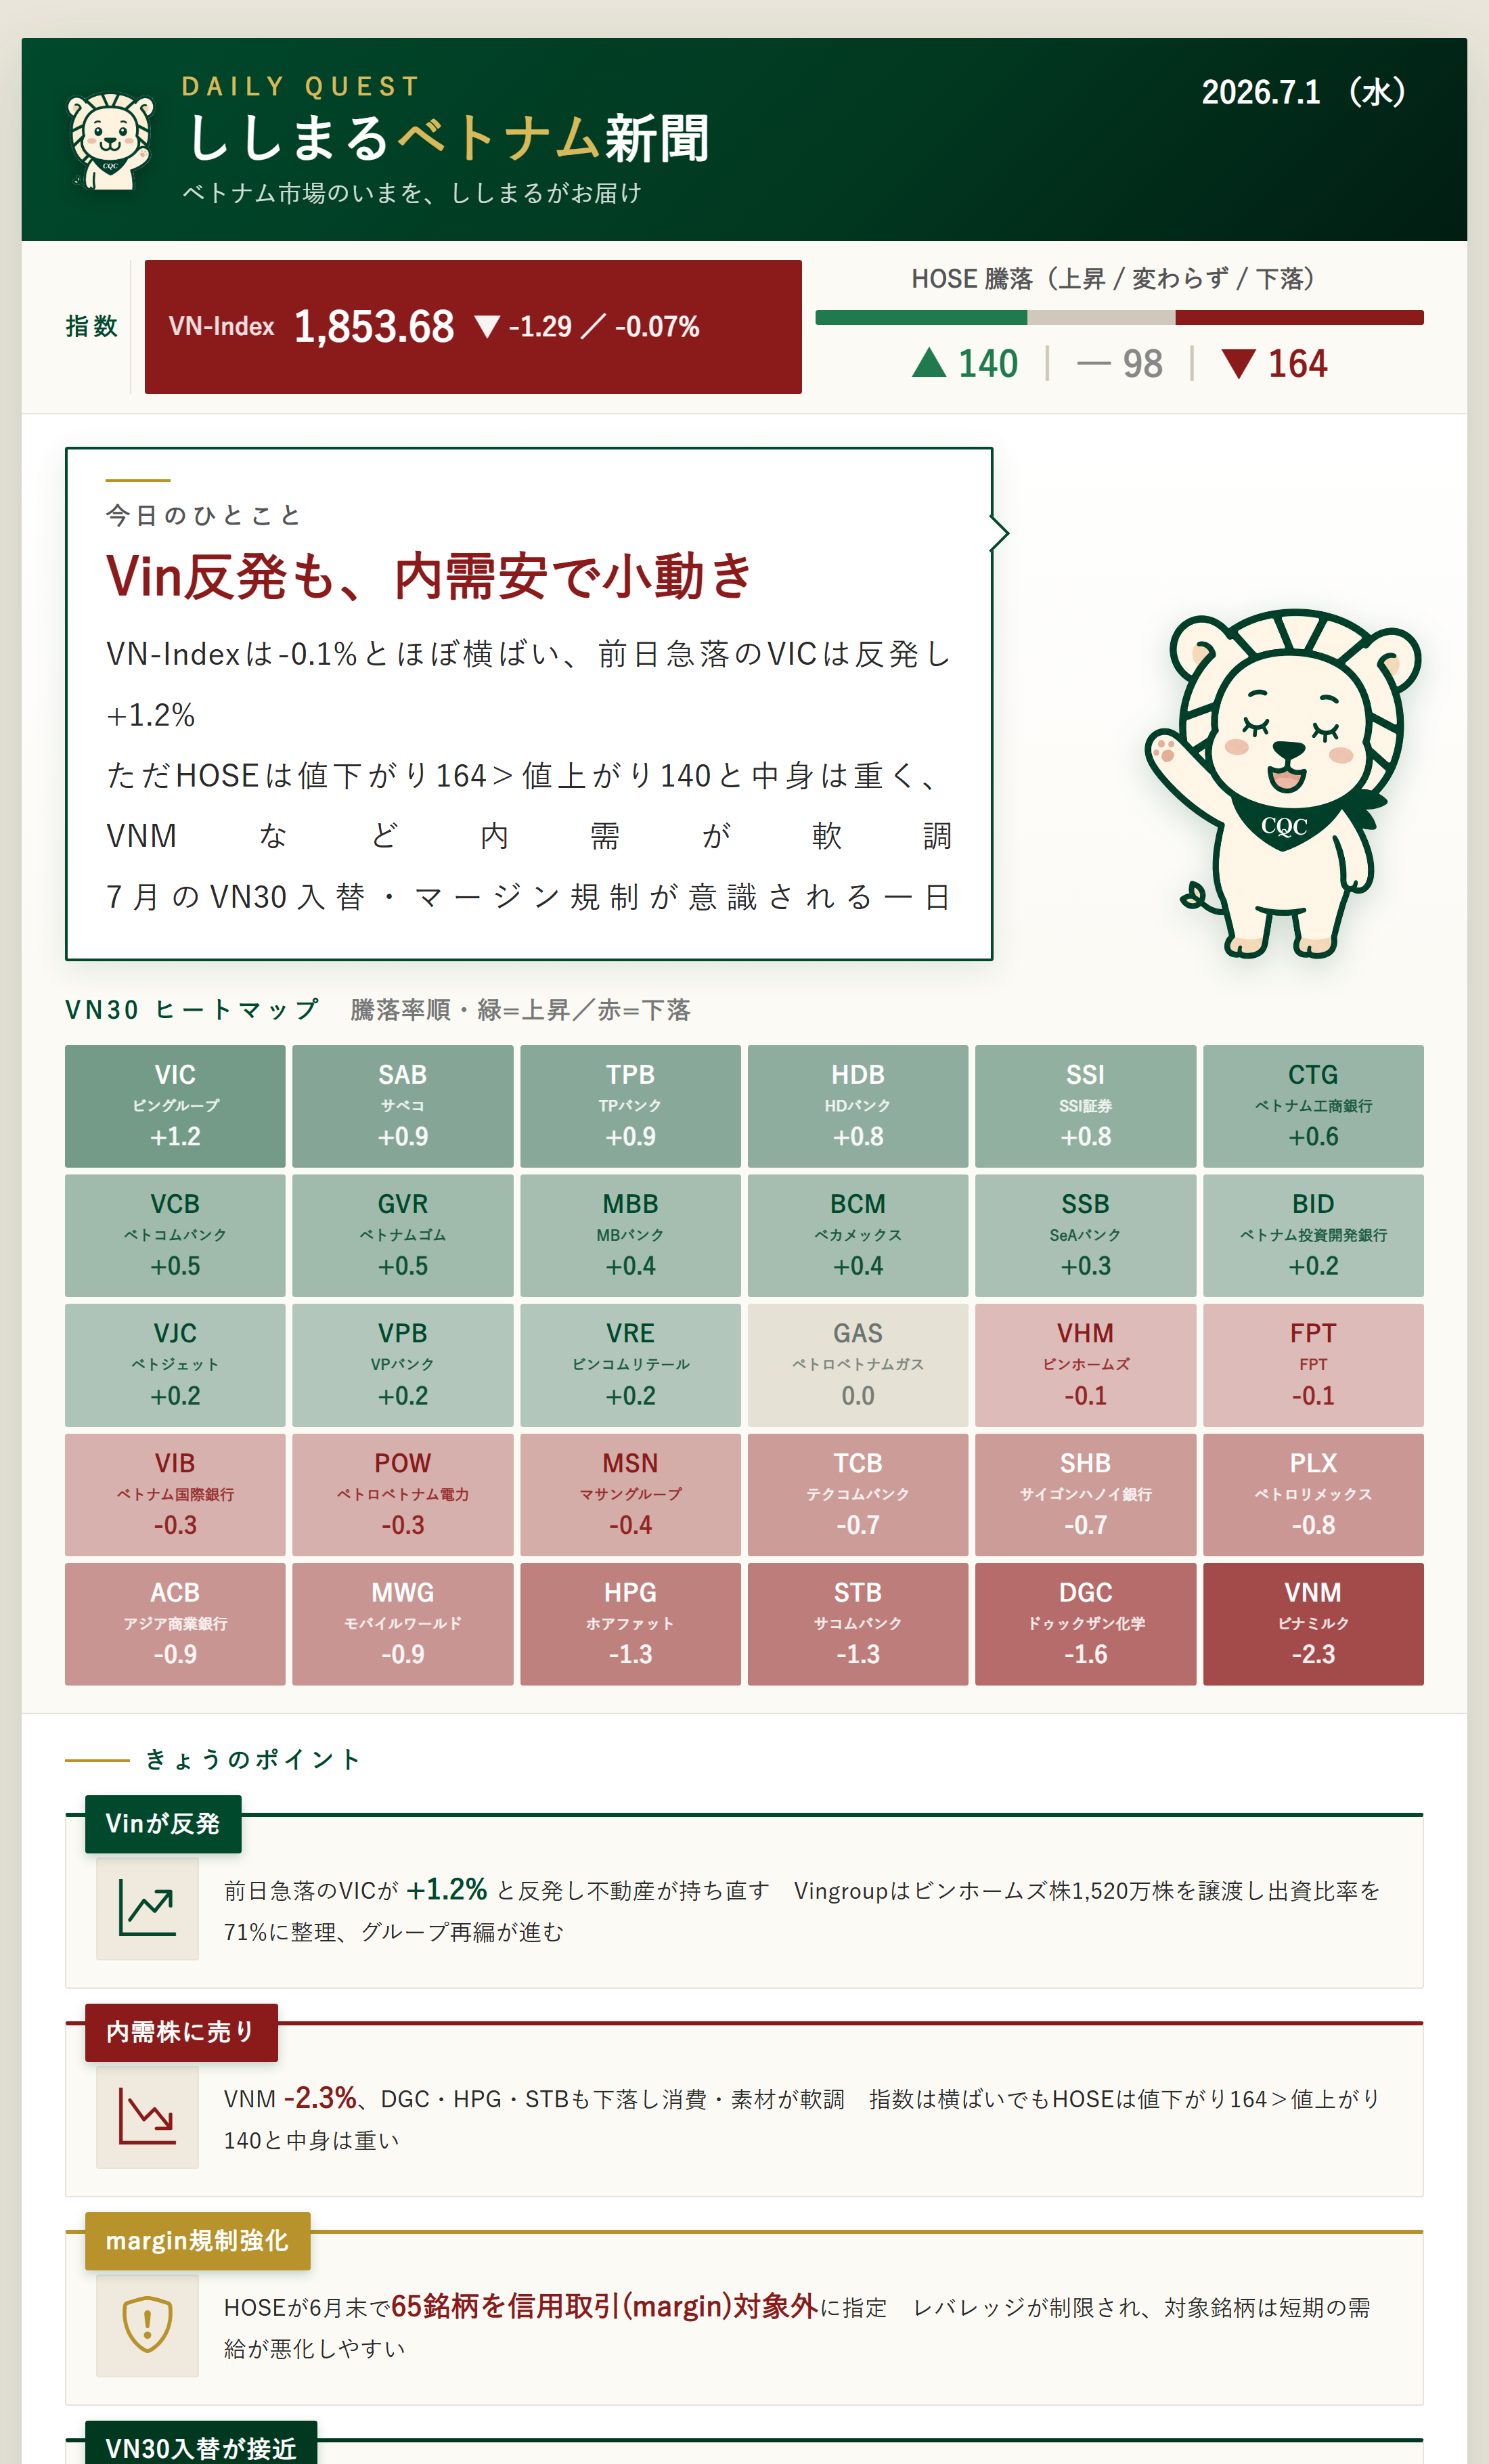
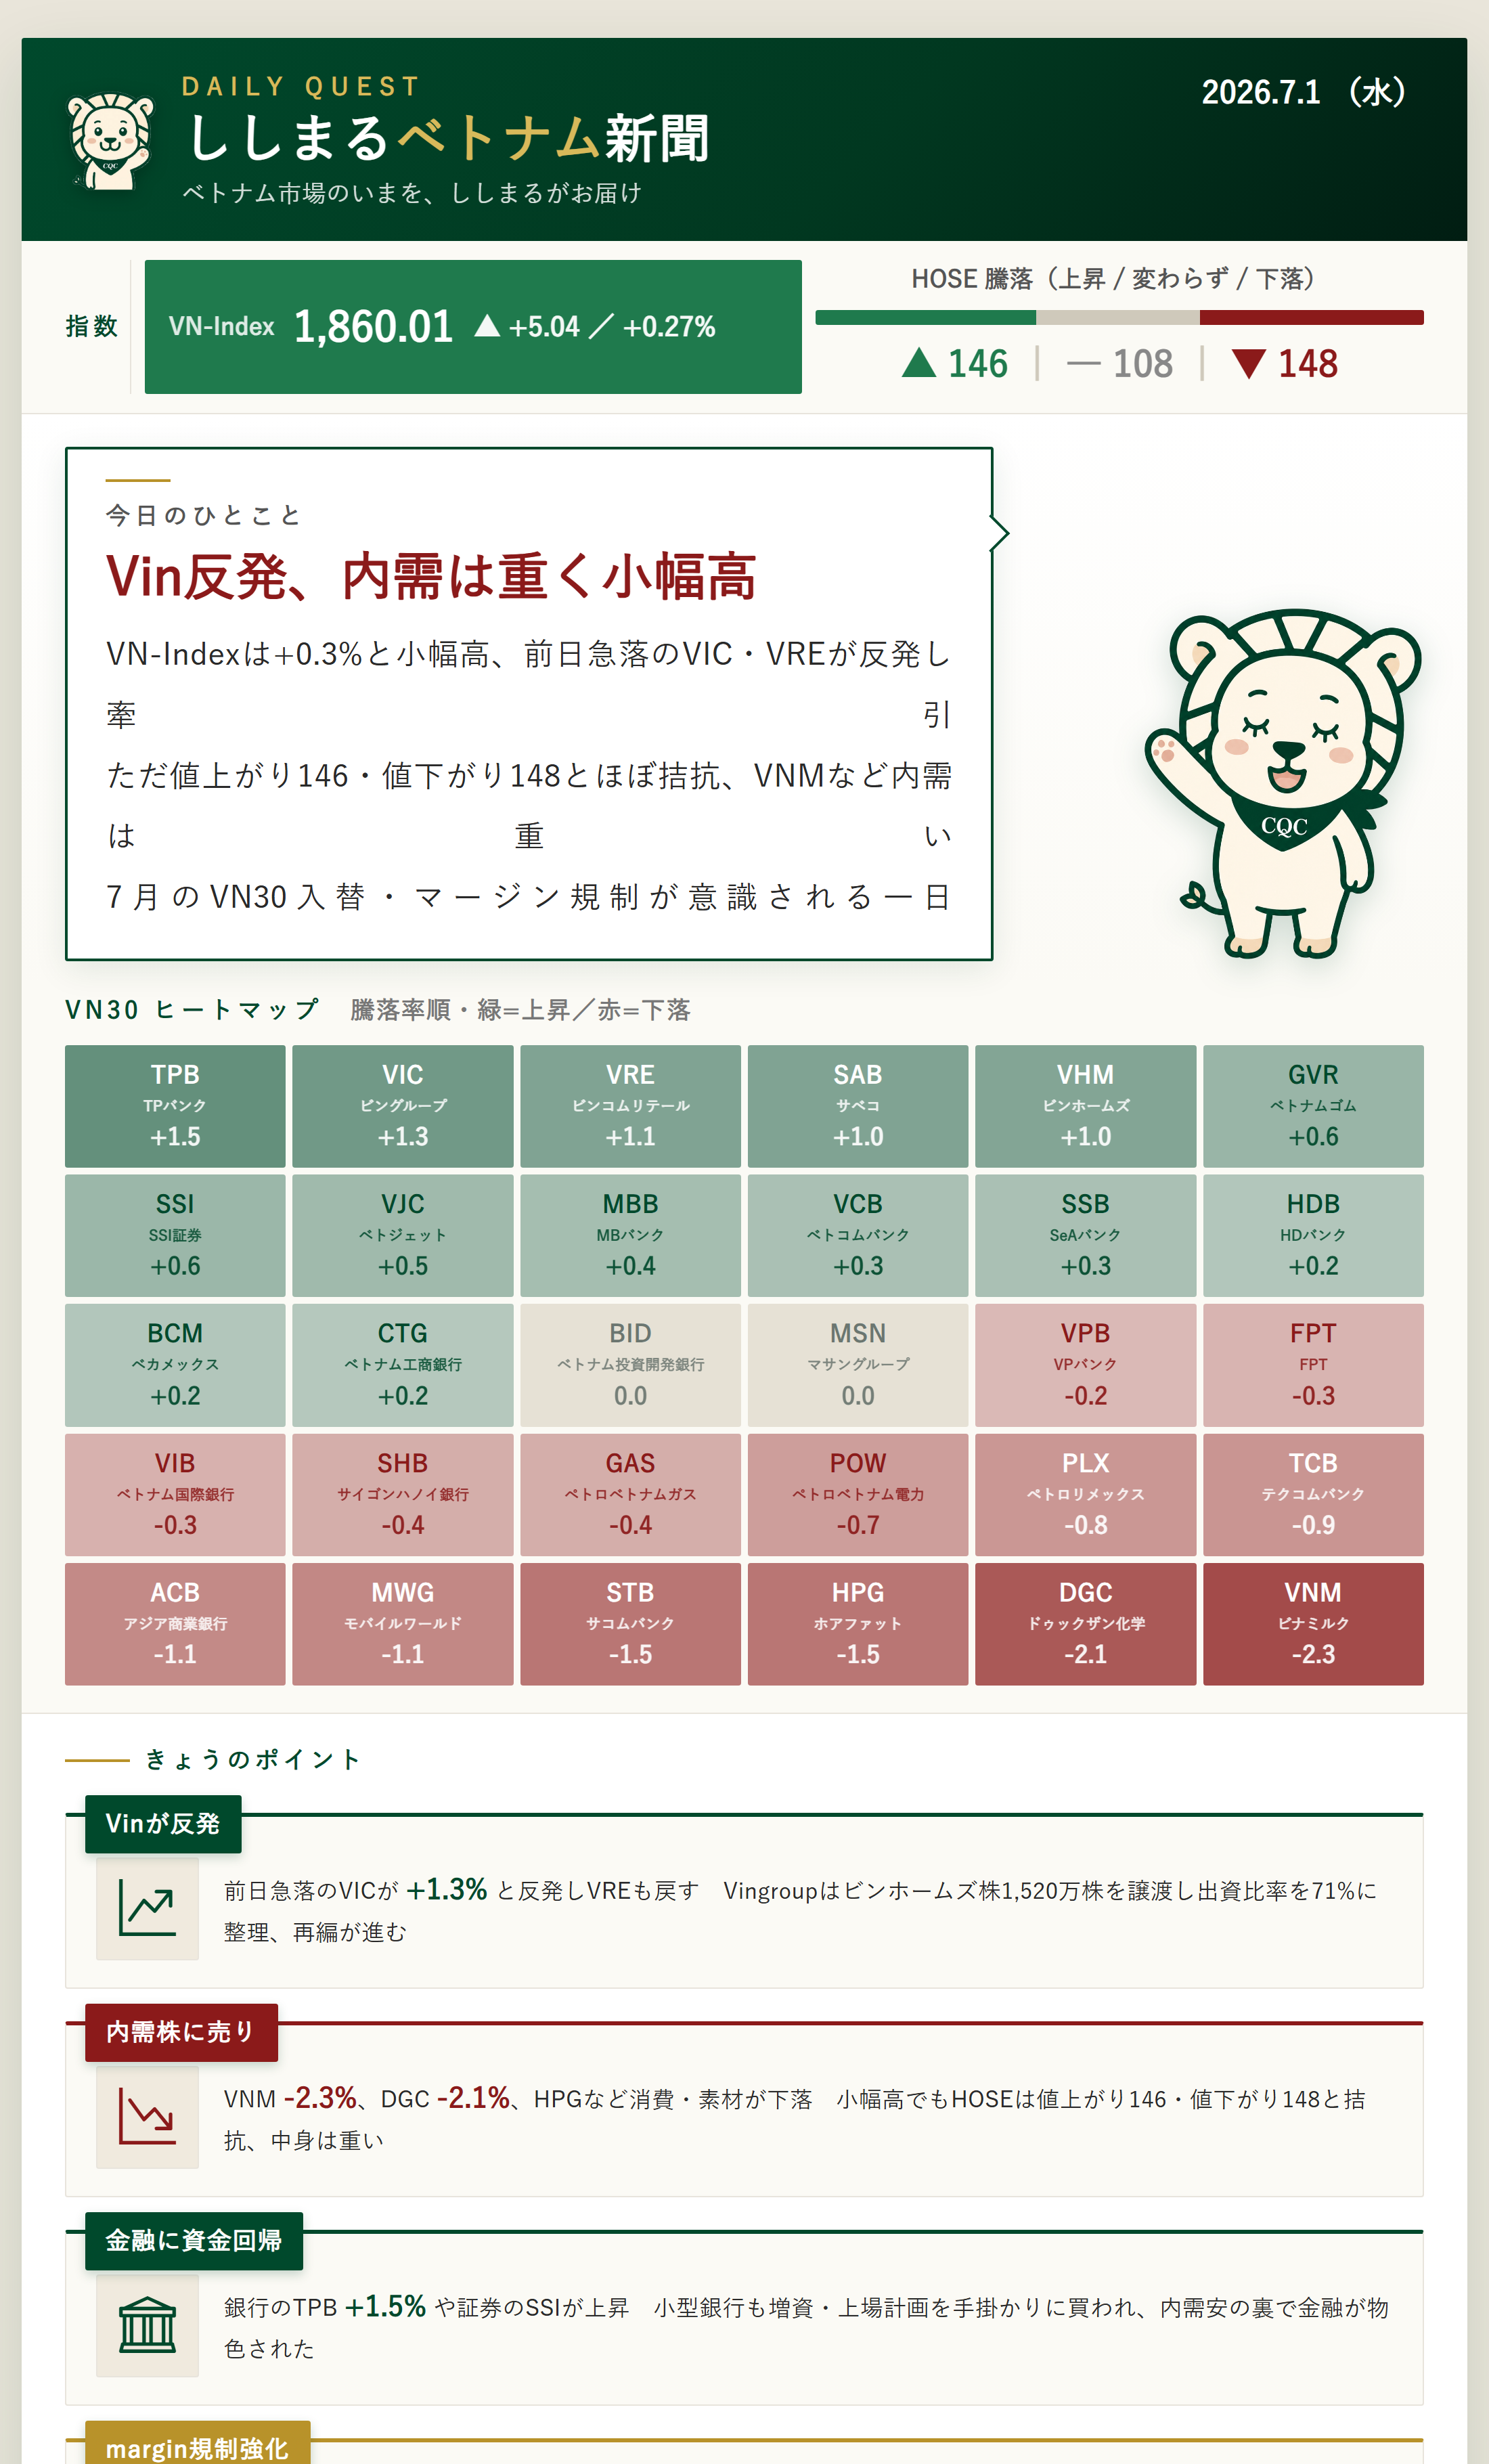
カード化を2段階フローに（候補生成→選定→確定）
- candidates.json(候補6-8本)＋render_candidates.ps1(docs/candidates.html=朝サッと選べる一覧)
- select_cards.ps1 -Pick で選んだ番号順にnews.json確定→render
- 6/30で通し確認(候補8→pick 1,2,6,3,4→5本確定→新聞)。弓場さんの朝は『選ぶ＋送る』だけ
- 朝便は08:30JSTのまま(選定の余裕)

diff --git a/docs/candidates.html b/docs/candidates.html
@@ -1,0 +1,67 @@
+<!DOCTYPE html><html lang="ja"><head><meta charset="utf-8"><meta name="viewport" content="width=device-width,initial-scale=1">
+<title>カード候補 ― 2026-06-30</title>
+<style>body{margin:0;background:#ECE8DE;font-family:'Hiragino Sans','Yu Gothic',Meiryo,sans-serif;color:#1A1A1A;}</style></head>
+<body><div style="max-width:760px;margin:20px auto;background:#FBFAF5;border-radius:8px;padding:22px 26px;box-shadow:0 8px 30px rgba(0,73,44,.12);">
+  <div style="font-size:12px;font-weight:700;letter-spacing:.2em;color:#B8922A;">CARD CANDIDATES</div>
+  <div style="font-size:24px;font-weight:900;color:#00492C;margin:2px 0 4px;">きょうのカード候補（2026-06-30 基準）</div>
+  <div style="font-size:13px;color:#666;margin-bottom:6px;">載せたい <b>5本前後</b> を番号で選んでください（順番も指定可）。今日のひとこと案：<b style="color:#8B1A1A;">「Vin反発も、内需安で小動き」</b></div>
+  <div style="font-size:12px;color:#888;background:#fff;border:1px dashed #C9C2B2;border-radius:4px;padding:7px 11px;margin-bottom:14px;">
+    選び方の例 → Claudeに「<b>2,3,4,6,1 で確定</b>」と言う（その順で掲載）／ or <code>select_cards.ps1 -Pick "2,3,4,6,1"</code>
+  </div>
+    <div style="display:flex;gap:14px;align-items:flex-start;background:#fff;border:1px solid #E8E4DC;border-left:5px solid #1F7A4D;border-radius:4px;padding:12px 14px;margin-bottom:9px;">
+      <div style="flex-shrink:0;width:40px;height:40px;border-radius:50%;background:#00492C;color:#fff;display:flex;align-items:center;justify-content:center;font-size:20px;font-weight:900;">1</div>
+      <div style="flex:1;">
+        <div style="margin-bottom:3px;"><span style="font-size:11px;font-weight:800;color:#fff;background:#00492C;border-radius:3px;padding:2px 8px;">ミクロ</span> <b style="font-size:15px;color:#1F7A4D;">Vinが反発</b> <span style="font-size:11px;color:#aaa;">()</span></div>
+        <div style="font-size:14px;line-height:1.7;color:#2A2A2A;">前日急落のVICが <b style="color:#1F7A4D;">+1.2%</b> と反発し不動産が持ち直す　Vingroupはビンホームズ株1,520万株を譲渡し出資比率を71%に整理、再編が進む</div>
+      </div>
+    </div>
+    <div style="display:flex;gap:14px;align-items:flex-start;background:#fff;border:1px solid #E8E4DC;border-left:5px solid #8B1A1A;border-radius:4px;padding:12px 14px;margin-bottom:9px;">
+      <div style="flex-shrink:0;width:40px;height:40px;border-radius:50%;background:#00492C;color:#fff;display:flex;align-items:center;justify-content:center;font-size:20px;font-weight:900;">2</div>
+      <div style="flex:1;">
+        <div style="margin-bottom:3px;"><span style="font-size:11px;font-weight:800;color:#fff;background:#00492C;border-radius:3px;padding:2px 8px;">ミクロ</span> <b style="font-size:15px;color:#8B1A1A;">内需株に売り</b> <span style="font-size:11px;color:#aaa;">()</span></div>
+        <div style="font-size:14px;line-height:1.7;color:#2A2A2A;">VNM <b style="color:#8B1A1A;">-2.3%</b>、DGC・HPG・STBも下落し消費・素材が軟調　指数は横ばいでもHOSEは値下がり164＞値上がり140と中身は重い</div>
+      </div>
+    </div>
+    <div style="display:flex;gap:14px;align-items:flex-start;background:#fff;border:1px solid #E8E4DC;border-left:5px solid #B8922A;border-radius:4px;padding:12px 14px;margin-bottom:9px;">
+      <div style="flex-shrink:0;width:40px;height:40px;border-radius:50%;background:#00492C;color:#fff;display:flex;align-items:center;justify-content:center;font-size:20px;font-weight:900;">3</div>
+      <div style="flex:1;">
+        <div style="margin-bottom:3px;"><span style="font-size:11px;font-weight:800;color:#fff;background:#B8922A;border-radius:3px;padding:2px 8px;">マクロ</span> <b style="font-size:15px;color:#B8922A;">margin規制強化</b> <span style="font-size:11px;color:#aaa;">()</span></div>
+        <div style="font-size:14px;line-height:1.7;color:#2A2A2A;">HOSEが6月末で<b style="color:#8B1A1A;">65銘柄を信用取引(margin)対象外</b>に指定　レバレッジが制限され、対象銘柄は短期の需給が悪化しやすい</div>
+      </div>
+    </div>
+    <div style="display:flex;gap:14px;align-items:flex-start;background:#fff;border:1px solid #E8E4DC;border-left:5px solid #013820;border-radius:4px;padding:12px 14px;margin-bottom:9px;">
+      <div style="flex-shrink:0;width:40px;height:40px;border-radius:50%;background:#00492C;color:#fff;display:flex;align-items:center;justify-content:center;font-size:20px;font-weight:900;">4</div>
+      <div style="flex:1;">
+        <div style="margin-bottom:3px;"><span style="font-size:11px;font-weight:800;color:#fff;background:#B8922A;border-radius:3px;padding:2px 8px;">マクロ</span> <b style="font-size:15px;color:#013820;">VN30入替が接近</b> <span style="font-size:11px;color:#aaa;">()</span></div>
+        <div style="font-size:14px;line-height:1.7;color:#2A2A2A;">7月のVN30定期見直しで<b style="color:#8B1A1A;">石油・ガス系の一角が除外候補</b>　VN30連動ETFは4本・計約1兆ドンあり、入替は資金フローに波及し得る</div>
+      </div>
+    </div>
+    <div style="display:flex;gap:14px;align-items:flex-start;background:#fff;border:1px solid #E8E4DC;border-left:5px solid #B8922A;border-radius:4px;padding:12px 14px;margin-bottom:9px;">
+      <div style="flex-shrink:0;width:40px;height:40px;border-radius:50%;background:#00492C;color:#fff;display:flex;align-items:center;justify-content:center;font-size:20px;font-weight:900;">5</div>
+      <div style="flex:1;">
+        <div style="margin-bottom:3px;"><span style="font-size:11px;font-weight:800;color:#fff;background:#B8922A;border-radius:3px;padding:2px 8px;">マクロ</span> <b style="font-size:15px;color:#B8922A;">高成長を掲げる</b> <span style="font-size:11px;color:#aaa;">()</span></div>
+        <div style="font-size:14px;line-height:1.7;color:#2A2A2A;">政府は下半期GDP成長率 <b style="color:#8B1A1A;">11.9%</b> を掲げ通年二桁を狙う　高成長期待は株価の追い風だが、為替・金利との両立が課題</div>
+      </div>
+    </div>
+    <div style="display:flex;gap:14px;align-items:flex-start;background:#fff;border:1px solid #E8E4DC;border-left:5px solid #1F7A4D;border-radius:4px;padding:12px 14px;margin-bottom:9px;">
+      <div style="flex-shrink:0;width:40px;height:40px;border-radius:50%;background:#00492C;color:#fff;display:flex;align-items:center;justify-content:center;font-size:20px;font-weight:900;">6</div>
+      <div style="flex:1;">
+        <div style="margin-bottom:3px;"><span style="font-size:11px;font-weight:800;color:#fff;background:#00492C;border-radius:3px;padding:2px 8px;">ミクロ</span> <b style="font-size:15px;color:#1F7A4D;">金融に資金回帰</b> <span style="font-size:11px;color:#aaa;">()</span></div>
+        <div style="font-size:14px;line-height:1.7;color:#2A2A2A;">証券のSSIや銀行のHDB・TPBが上昇　小型銀行も増資・上場計画を手掛かりに買われ、内需安の裏で金融が物色された</div>
+      </div>
+    </div>
+    <div style="display:flex;gap:14px;align-items:flex-start;background:#fff;border:1px solid #E8E4DC;border-left:5px solid #1F7A4D;border-radius:4px;padding:12px 14px;margin-bottom:9px;">
+      <div style="flex-shrink:0;width:40px;height:40px;border-radius:50%;background:#00492C;color:#fff;display:flex;align-items:center;justify-content:center;font-size:20px;font-weight:900;">7</div>
+      <div style="flex:1;">
+        <div style="margin-bottom:3px;"><span style="font-size:11px;font-weight:800;color:#fff;background:#00492C;border-radius:3px;padding:2px 8px;">ミクロ</span> <b style="font-size:15px;color:#1F7A4D;">銀行の利益期待</b> <span style="font-size:11px;color:#aaa;">()</span></div>
+        <div style="font-size:14px;line-height:1.7;color:#2A2A2A;">現地報道は2026年の銀行利益を <b style="color:#1F7A4D;">信用拡大枠の「VIPパス」</b> と表現　与信枠の優遇が大手行の収益を押し上げるとの見方</div>
+      </div>
+    </div>
+    <div style="display:flex;gap:14px;align-items:flex-start;background:#fff;border:1px solid #E8E4DC;border-left:5px solid #B8922A;border-radius:4px;padding:12px 14px;margin-bottom:9px;">
+      <div style="flex-shrink:0;width:40px;height:40px;border-radius:50%;background:#00492C;color:#fff;display:flex;align-items:center;justify-content:center;font-size:20px;font-weight:900;">8</div>
+      <div style="flex:1;">
+        <div style="margin-bottom:3px;"><span style="font-size:11px;font-weight:800;color:#fff;background:#B8922A;border-radius:3px;padding:2px 8px;">マクロ</span> <b style="font-size:15px;color:#B8922A;">金が最高値圏</b> <span style="font-size:11px;color:#aaa;">()</span></div>
+        <div style="font-size:14px;line-height:1.7;color:#2A2A2A;">金が <b style="color:#8B1A1A;">4,000ドル台</b> に上昇し最高値圏　ドン建て資産の妙味が相対的に問われ、為替・金利の感応度が高まる局面</div>
+      </div>
+    </div>
+</div></body></html>

diff --git a/docs/index.html b/docs/index.html
@@ -48,10 +48,10 @@
     <div style="position:relative;background:#FFFFFF;border:2px solid #00492C;border-radius:2px;padding:22px 28px;box-shadow:0 6px 24px rgba(0,73,44,.10);z-index:2;">
       <div style="width:48px;height:2px;background:#B8922A;margin-bottom:11px;"></div>
       <div style="font-size:18px;font-weight:700;letter-spacing:.18em;color:#555;">今日のひとこと</div>
-      <div style="font-size:39px;font-weight:900;color:#8B1A1A;line-height:1.22;margin:7px 0 11px;letter-spacing:-.01em;">Vin反発も、内需安で小動き</div>
+      <div style="font-size:39px;font-weight:900;color:#8B1A1A;line-height:1.22;margin:7px 0 11px;letter-spacing:-.01em;">Vin反発、内需は重く小幅高</div>
       <div style="font-size:23px;line-height:1.95;color:#2A2A2A;font-weight:500;text-align:justify;text-align-last:justify;">
-        <div>VN-Indexは-0.1%とほぼ横ばい、前日急落のVICは反発し+1.2%</div>
-        <div>ただHOSEは値下がり164＞値上がり140と中身は重く、VNMなど内需が軟調</div>
+        <div>VN-Indexは+0.3%と小幅高、前日急落のVIC・VREが反発し牽引</div>
+        <div>ただ値上がり146・値下がり148とほぼ拮抗、VNMなど内需は重い</div>
         <div>7月のVN30入替・マージン規制が意識される一日</div>
       </div>
       <div style="position:absolute;right:-10px;top:52px;width:18px;height:18px;background:#fff;border-right:2px solid #00492C;border-top:2px solid #00492C;transform:rotate(45deg);"></div>
@@ -230,14 +230,21 @@
         <div style="flex-shrink:0;width:74px;height:74px;border-radius:2px;display:flex;align-items:center;justify-content:center;font-size:42px;background:#F0EADE;color:#00492C;border:1px solid #E8E4DC;"><i class="bi bi-graph-up-arrow" aria-hidden="true"></i></div>
         <div style="flex:1;">
           <span style="position:absolute;top:-16px;left:14px;display:inline-flex;align-items:center;font-size:18px;font-weight:800;color:#fff;border-radius:2px;padding:7px 15px;letter-spacing:.04em;background:#00492C;box-shadow:0 3px 8px rgba(0,73,44,.22);">Vinが反発</span>
-          <div style="margin-top:0;"><div style="font-size:17px;line-height:1.7;color:#2A2A2A;font-weight:500;">前日急落のVICが <em style="color:#00492C;font-style:normal;font-weight:900;font-size:21px;">+1.2%</em> と反発し不動産が持ち直す　Vingroupはビンホームズ株1,520万株を譲渡し出資比率を71%に整理、グループ再編が進む</div></div>
+          <div style="margin-top:0;"><div style="font-size:17px;line-height:1.7;color:#2A2A2A;font-weight:500;">前日急落のVICが <em style="color:#00492C;font-style:normal;font-weight:900;font-size:21px;">+1.3%</em> と反発しVREも戻す　Vingroupはビンホームズ株1,520万株を譲渡し出資比率を71%に整理、再編が進む</div></div>
         </div>
       </div>
       <div style="position:relative;display:flex;gap:18px;align-items:center;background:#FBFAF5;border:1px solid #E8E4DC;border-top:3px solid #8B1A1A;border-radius:2px;padding:30px 22px 20px;margin:24px 0 0;">
         <div style="flex-shrink:0;width:74px;height:74px;border-radius:2px;display:flex;align-items:center;justify-content:center;font-size:42px;background:#F0EADE;color:#8B1A1A;border:1px solid #E8E4DC;"><i class="bi bi-graph-down-arrow" aria-hidden="true"></i></div>
         <div style="flex:1;">
           <span style="position:absolute;top:-16px;left:14px;display:inline-flex;align-items:center;font-size:18px;font-weight:800;color:#fff;border-radius:2px;padding:7px 15px;letter-spacing:.04em;background:#8B1A1A;box-shadow:0 3px 8px rgba(0,73,44,.22);">内需株に売り</span>
-          <div style="margin-top:0;"><div style="font-size:17px;line-height:1.7;color:#2A2A2A;font-weight:500;">VNM <b style="color:#8B1A1A;font-weight:900;font-size:21px;">-2.3%</b>、DGC・HPG・STBも下落し消費・素材が軟調　指数は横ばいでもHOSEは値下がり164＞値上がり140と中身は重い</div></div>
+          <div style="margin-top:0;"><div style="font-size:17px;line-height:1.7;color:#2A2A2A;font-weight:500;">VNM <b style="color:#8B1A1A;font-weight:900;font-size:21px;">-2.3%</b>、DGC <b style="color:#8B1A1A;font-weight:900;font-size:21px;">-2.1%</b>、HPGなど消費・素材が下落　小幅高でもHOSEは値上がり146・値下がり148と拮抗、中身は重い</div></div>
+        </div>
+      </div>
+      <div style="position:relative;display:flex;gap:18px;align-items:center;background:#FBFAF5;border:1px solid #E8E4DC;border-top:3px solid #00492C;border-radius:2px;padding:30px 22px 20px;margin:24px 0 0;">
+        <div style="flex-shrink:0;width:74px;height:74px;border-radius:2px;display:flex;align-items:center;justify-content:center;font-size:42px;background:#F0EADE;color:#00492C;border:1px solid #E8E4DC;"><i class="bi bi-bank" aria-hidden="true"></i></div>
+        <div style="flex:1;">
+          <span style="position:absolute;top:-16px;left:14px;display:inline-flex;align-items:center;font-size:18px;font-weight:800;color:#fff;border-radius:2px;padding:7px 15px;letter-spacing:.04em;background:#00492C;box-shadow:0 3px 8px rgba(0,73,44,.22);">金融に資金回帰</span>
+          <div style="margin-top:0;"><div style="font-size:17px;line-height:1.7;color:#2A2A2A;font-weight:500;">銀行のTPB <em style="color:#00492C;font-style:normal;font-weight:900;font-size:21px;">+1.5%</em> や証券のSSIが上昇　小型銀行も増資・上場計画を手掛かりに買われ、内需安の裏で金融が物色された</div></div>
         </div>
       </div>
       <div style="position:relative;display:flex;gap:18px;align-items:center;background:#FBFAF5;border:1px solid #E8E4DC;border-top:3px solid #B8922A;border-radius:2px;padding:30px 22px 20px;margin:24px 0 0;">
@@ -247,18 +254,11 @@
           <div style="margin-top:0;"><div style="font-size:17px;line-height:1.7;color:#2A2A2A;font-weight:500;">HOSEが6月末で<b style="color:#8B1A1A;font-weight:900;font-size:21px;">65銘柄を信用取引(margin)対象外</b>に指定　レバレッジが制限され、対象銘柄は短期の需給が悪化しやすい</div></div>
         </div>
       </div>
-      <div style="position:relative;display:flex;gap:18px;align-items:center;background:#FBFAF5;border:1px solid #E8E4DC;border-top:3px solid #013820;border-radius:2px;padding:30px 22px 20px;margin:24px 0 0;">
+      <div style="position:relative;display:flex;gap:18px;align-items:center;background:#FBFAF5;border:1px solid #E8E4DC;border-top:3px solid #013820;border-radius:2px;padding:30px 22px 20px;margin:24px 0 14px;">
         <div style="flex-shrink:0;width:74px;height:74px;border-radius:2px;display:flex;align-items:center;justify-content:center;font-size:42px;background:#F0EADE;color:#013820;border:1px solid #E8E4DC;"><i class="bi bi-arrow-repeat" aria-hidden="true"></i></div>
         <div style="flex:1;">
           <span style="position:absolute;top:-16px;left:14px;display:inline-flex;align-items:center;font-size:18px;font-weight:800;color:#fff;border-radius:2px;padding:7px 15px;letter-spacing:.04em;background:#013820;box-shadow:0 3px 8px rgba(0,73,44,.22);">VN30入替が接近</span>
           <div style="margin-top:0;"><div style="font-size:17px;line-height:1.7;color:#2A2A2A;font-weight:500;">7月のVN30定期見直しで<b style="color:#8B1A1A;font-weight:900;font-size:21px;">石油・ガス系の一角が除外候補</b>　VN30連動ETFは4本・計約1兆ドンあり、入替は資金フローに波及し得る</div></div>
-        </div>
-      </div>
-      <div style="position:relative;display:flex;gap:18px;align-items:center;background:#FBFAF5;border:1px solid #E8E4DC;border-top:3px solid #B8922A;border-radius:2px;padding:30px 22px 20px;margin:24px 0 14px;">
-        <div style="flex-shrink:0;width:74px;height:74px;border-radius:2px;display:flex;align-items:center;justify-content:center;font-size:42px;background:#F0EADE;color:#B8922A;border:1px solid #E8E4DC;"><i class="bi bi-graph-up" aria-hidden="true"></i></div>
-        <div style="flex:1;">
-          <span style="position:absolute;top:-16px;left:14px;display:inline-flex;align-items:center;font-size:18px;font-weight:800;color:#fff;border-radius:2px;padding:7px 15px;letter-spacing:.04em;background:#B8922A;box-shadow:0 3px 8px rgba(0,73,44,.22);">高成長を掲げる</span>
-          <div style="margin-top:0;"><div style="font-size:17px;line-height:1.7;color:#2A2A2A;font-weight:500;">政府は下半期GDP成長率 <b style="color:#8B1A1A;font-weight:900;font-size:21px;">11.9%</b> を掲げ通年二桁を狙う　高成長期待は株価の追い風だが、為替・金利との両立が課題</div></div>
         </div>
       </div>
   </div>

diff --git a/outputs/vn30_2026-06-30.html b/outputs/vn30_2026-06-30.html
@@ -48,10 +48,10 @@
     <div style="position:relative;background:#FFFFFF;border:2px solid #00492C;border-radius:2px;padding:22px 28px;box-shadow:0 6px 24px rgba(0,73,44,.10);z-index:2;">
       <div style="width:48px;height:2px;background:#B8922A;margin-bottom:11px;"></div>
       <div style="font-size:18px;font-weight:700;letter-spacing:.18em;color:#555;">今日のひとこと</div>
-      <div style="font-size:39px;font-weight:900;color:#8B1A1A;line-height:1.22;margin:7px 0 11px;letter-spacing:-.01em;">Vin反発も、内需安で小動き</div>
+      <div style="font-size:39px;font-weight:900;color:#8B1A1A;line-height:1.22;margin:7px 0 11px;letter-spacing:-.01em;">Vin反発、内需は重く小幅高</div>
       <div style="font-size:23px;line-height:1.95;color:#2A2A2A;font-weight:500;text-align:justify;text-align-last:justify;">
-        <div>VN-Indexは-0.1%とほぼ横ばい、前日急落のVICは反発し+1.2%</div>
-        <div>ただHOSEは値下がり164＞値上がり140と中身は重く、VNMなど内需が軟調</div>
+        <div>VN-Indexは+0.3%と小幅高、前日急落のVIC・VREが反発し牽引</div>
+        <div>ただ値上がり146・値下がり148とほぼ拮抗、VNMなど内需は重い</div>
         <div>7月のVN30入替・マージン規制が意識される一日</div>
       </div>
       <div style="position:absolute;right:-10px;top:52px;width:18px;height:18px;background:#fff;border-right:2px solid #00492C;border-top:2px solid #00492C;transform:rotate(45deg);"></div>
@@ -230,14 +230,21 @@
         <div style="flex-shrink:0;width:74px;height:74px;border-radius:2px;display:flex;align-items:center;justify-content:center;font-size:42px;background:#F0EADE;color:#00492C;border:1px solid #E8E4DC;"><i class="bi bi-graph-up-arrow" aria-hidden="true"></i></div>
         <div style="flex:1;">
           <span style="position:absolute;top:-16px;left:14px;display:inline-flex;align-items:center;font-size:18px;font-weight:800;color:#fff;border-radius:2px;padding:7px 15px;letter-spacing:.04em;background:#00492C;box-shadow:0 3px 8px rgba(0,73,44,.22);">Vinが反発</span>
-          <div style="margin-top:0;"><div style="font-size:17px;line-height:1.7;color:#2A2A2A;font-weight:500;">前日急落のVICが <em style="color:#00492C;font-style:normal;font-weight:900;font-size:21px;">+1.2%</em> と反発し不動産が持ち直す　Vingroupはビンホームズ株1,520万株を譲渡し出資比率を71%に整理、グループ再編が進む</div></div>
+          <div style="margin-top:0;"><div style="font-size:17px;line-height:1.7;color:#2A2A2A;font-weight:500;">前日急落のVICが <em style="color:#00492C;font-style:normal;font-weight:900;font-size:21px;">+1.3%</em> と反発しVREも戻す　Vingroupはビンホームズ株1,520万株を譲渡し出資比率を71%に整理、再編が進む</div></div>
         </div>
       </div>
       <div style="position:relative;display:flex;gap:18px;align-items:center;background:#FBFAF5;border:1px solid #E8E4DC;border-top:3px solid #8B1A1A;border-radius:2px;padding:30px 22px 20px;margin:24px 0 0;">
         <div style="flex-shrink:0;width:74px;height:74px;border-radius:2px;display:flex;align-items:center;justify-content:center;font-size:42px;background:#F0EADE;color:#8B1A1A;border:1px solid #E8E4DC;"><i class="bi bi-graph-down-arrow" aria-hidden="true"></i></div>
         <div style="flex:1;">
           <span style="position:absolute;top:-16px;left:14px;display:inline-flex;align-items:center;font-size:18px;font-weight:800;color:#fff;border-radius:2px;padding:7px 15px;letter-spacing:.04em;background:#8B1A1A;box-shadow:0 3px 8px rgba(0,73,44,.22);">内需株に売り</span>
-          <div style="margin-top:0;"><div style="font-size:17px;line-height:1.7;color:#2A2A2A;font-weight:500;">VNM <b style="color:#8B1A1A;font-weight:900;font-size:21px;">-2.3%</b>、DGC・HPG・STBも下落し消費・素材が軟調　指数は横ばいでもHOSEは値下がり164＞値上がり140と中身は重い</div></div>
+          <div style="margin-top:0;"><div style="font-size:17px;line-height:1.7;color:#2A2A2A;font-weight:500;">VNM <b style="color:#8B1A1A;font-weight:900;font-size:21px;">-2.3%</b>、DGC <b style="color:#8B1A1A;font-weight:900;font-size:21px;">-2.1%</b>、HPGなど消費・素材が下落　小幅高でもHOSEは値上がり146・値下がり148と拮抗、中身は重い</div></div>
+        </div>
+      </div>
+      <div style="position:relative;display:flex;gap:18px;align-items:center;background:#FBFAF5;border:1px solid #E8E4DC;border-top:3px solid #00492C;border-radius:2px;padding:30px 22px 20px;margin:24px 0 0;">
+        <div style="flex-shrink:0;width:74px;height:74px;border-radius:2px;display:flex;align-items:center;justify-content:center;font-size:42px;background:#F0EADE;color:#00492C;border:1px solid #E8E4DC;"><i class="bi bi-bank" aria-hidden="true"></i></div>
+        <div style="flex:1;">
+          <span style="position:absolute;top:-16px;left:14px;display:inline-flex;align-items:center;font-size:18px;font-weight:800;color:#fff;border-radius:2px;padding:7px 15px;letter-spacing:.04em;background:#00492C;box-shadow:0 3px 8px rgba(0,73,44,.22);">金融に資金回帰</span>
+          <div style="margin-top:0;"><div style="font-size:17px;line-height:1.7;color:#2A2A2A;font-weight:500;">銀行のTPB <em style="color:#00492C;font-style:normal;font-weight:900;font-size:21px;">+1.5%</em> や証券のSSIが上昇　小型銀行も増資・上場計画を手掛かりに買われ、内需安の裏で金融が物色された</div></div>
         </div>
       </div>
       <div style="position:relative;display:flex;gap:18px;align-items:center;background:#FBFAF5;border:1px solid #E8E4DC;border-top:3px solid #B8922A;border-radius:2px;padding:30px 22px 20px;margin:24px 0 0;">
@@ -247,18 +254,11 @@
           <div style="margin-top:0;"><div style="font-size:17px;line-height:1.7;color:#2A2A2A;font-weight:500;">HOSEが6月末で<b style="color:#8B1A1A;font-weight:900;font-size:21px;">65銘柄を信用取引(margin)対象外</b>に指定　レバレッジが制限され、対象銘柄は短期の需給が悪化しやすい</div></div>
         </div>
       </div>
-      <div style="position:relative;display:flex;gap:18px;align-items:center;background:#FBFAF5;border:1px solid #E8E4DC;border-top:3px solid #013820;border-radius:2px;padding:30px 22px 20px;margin:24px 0 0;">
+      <div style="position:relative;display:flex;gap:18px;align-items:center;background:#FBFAF5;border:1px solid #E8E4DC;border-top:3px solid #013820;border-radius:2px;padding:30px 22px 20px;margin:24px 0 14px;">
         <div style="flex-shrink:0;width:74px;height:74px;border-radius:2px;display:flex;align-items:center;justify-content:center;font-size:42px;background:#F0EADE;color:#013820;border:1px solid #E8E4DC;"><i class="bi bi-arrow-repeat" aria-hidden="true"></i></div>
         <div style="flex:1;">
           <span style="position:absolute;top:-16px;left:14px;display:inline-flex;align-items:center;font-size:18px;font-weight:800;color:#fff;border-radius:2px;padding:7px 15px;letter-spacing:.04em;background:#013820;box-shadow:0 3px 8px rgba(0,73,44,.22);">VN30入替が接近</span>
           <div style="margin-top:0;"><div style="font-size:17px;line-height:1.7;color:#2A2A2A;font-weight:500;">7月のVN30定期見直しで<b style="color:#8B1A1A;font-weight:900;font-size:21px;">石油・ガス系の一角が除外候補</b>　VN30連動ETFは4本・計約1兆ドンあり、入替は資金フローに波及し得る</div></div>
-        </div>
-      </div>
-      <div style="position:relative;display:flex;gap:18px;align-items:center;background:#FBFAF5;border:1px solid #E8E4DC;border-top:3px solid #B8922A;border-radius:2px;padding:30px 22px 20px;margin:24px 0 14px;">
-        <div style="flex-shrink:0;width:74px;height:74px;border-radius:2px;display:flex;align-items:center;justify-content:center;font-size:42px;background:#F0EADE;color:#B8922A;border:1px solid #E8E4DC;"><i class="bi bi-graph-up" aria-hidden="true"></i></div>
-        <div style="flex:1;">
-          <span style="position:absolute;top:-16px;left:14px;display:inline-flex;align-items:center;font-size:18px;font-weight:800;color:#fff;border-radius:2px;padding:7px 15px;letter-spacing:.04em;background:#B8922A;box-shadow:0 3px 8px rgba(0,73,44,.22);">高成長を掲げる</span>
-          <div style="margin-top:0;"><div style="font-size:17px;line-height:1.7;color:#2A2A2A;font-weight:500;">政府は下半期GDP成長率 <b style="color:#8B1A1A;font-weight:900;font-size:21px;">11.9%</b> を掲げ通年二桁を狙う　高成長期待は株価の追い風だが、為替・金利との両立が課題</div></div>
         </div>
       </div>
   </div>